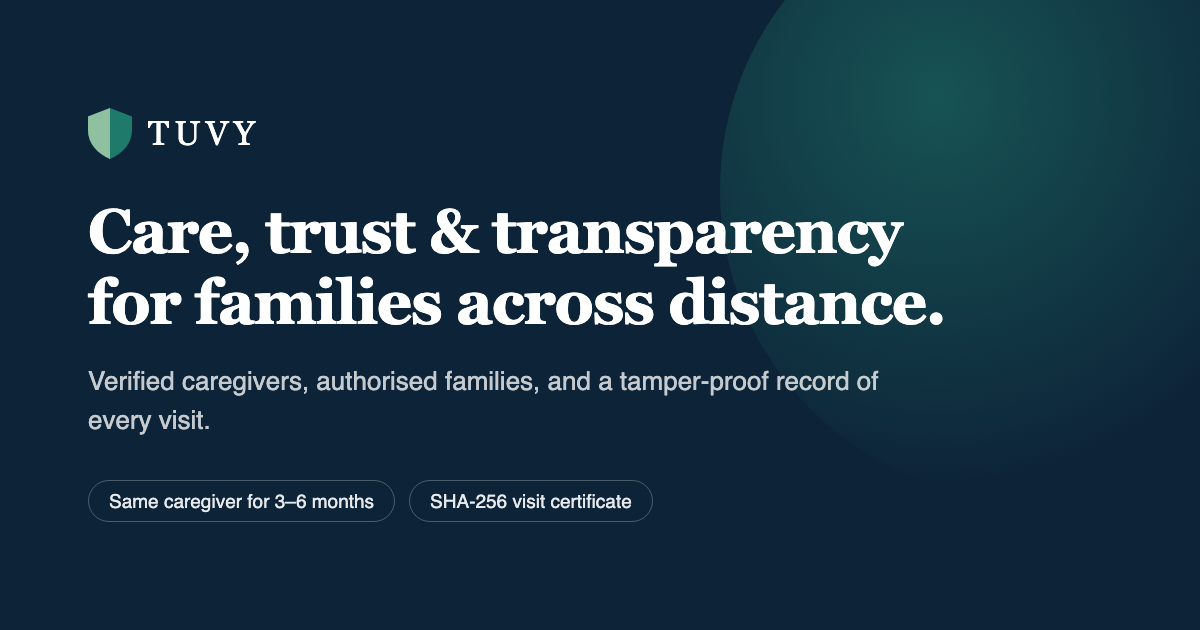
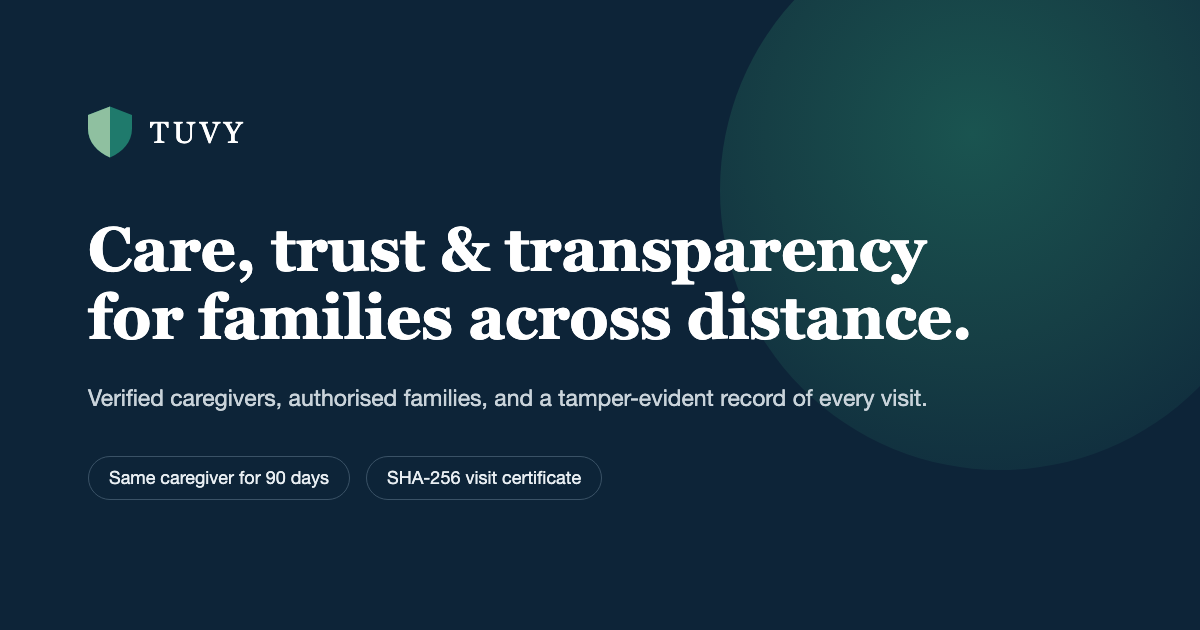
Drop Elite, add Terms of Service, re-export og.png
- Remove the Elite plan; three plans now (owner decision).
- New /terms/ page in the site's style, based on what the apps do:
  18+, OTP accounts, family vs caregiver apps, cash-at-the-door billing
  until online plans open, cancellation rules as visit-service applies
  them, independent caregivers, not a medical device or emergency
  service, reporting/blocking, acceptable use, deletion paths,
  disclaimers, liability, Indian law. Linked from the footer.
- Security: restore "Data is backed up daily" (schedule 0 2 * * * in
  infra/deploy-firestore-backup.sh; owner confirms it runs).
- og.png re-rendered at 1200x630: "Same caregiver for 90 days",
  "tamper-evident".

Claude-Session: https://claude.ai/code/session_01YMFcTZ7xKrqMUZS26zyEk5

diff --git a/terms/index.html b/terms/index.html
@@ -1,0 +1,184 @@
+<!DOCTYPE html>
+<html lang="en">
+<head>
+<meta charset="UTF-8">
+<meta name="viewport" content="width=device-width, initial-scale=1.0">
+<title>Terms of Service — Tuvy</title>
+<link rel="icon" href="/favicon.svg" type="image/svg+xml">
+<meta name="description" content="The terms for using Tuvy and Tuvy Pro.">
+<style>
+  :root{--navy:#0d2438;--teal:#1f7a6c;--cream:#f6f8f6;--ink:#0d2438;--ink-soft:#526270;
+        --card:#fff;--line:#e3eae7;--radius:16px;--shadow:0 12px 34px rgba(13,36,56,0.10);}
+  *{box-sizing:border-box;margin:0;padding:0;}
+  body{font-family:"Segoe UI",-apple-system,BlinkMacSystemFont,"Helvetica Neue",Arial,sans-serif;
+       color:var(--ink);background:var(--cream);line-height:1.65;-webkit-font-smoothing:antialiased;}
+  .wrap{max-width:760px;margin:0 auto;padding:56px 20px 80px;}
+  .back{display:inline-block;color:var(--teal);text-decoration:none;font-size:.92rem;margin-bottom:28px;}
+  .back:hover{text-decoration:underline;}
+  .card{background:var(--card);border:1px solid var(--line);border-radius:var(--radius);
+        box-shadow:var(--shadow);padding:40px 36px;}
+  h1{font-size:1.9rem;line-height:1.25;margin-bottom:10px;color:var(--navy);}
+  h2{font-size:1.18rem;margin:30px 0 10px;color:var(--navy);}
+  p{margin:0 0 12px;color:var(--ink-soft);} p strong{color:var(--ink);}
+  ul{margin:0 0 14px 20px;} li{margin-bottom:8px;color:var(--ink-soft);} li strong{color:var(--ink);}
+  a{color:var(--teal);}
+  .meta{background:#f2f6f4;border-left:3px solid var(--teal);padding:12px 14px;border-radius:8px;margin-bottom:22px;}
+  .candid{background:#fdf6ec;border-left:3px solid #c98a2e;padding:14px 16px;border-radius:8px;margin:22px 0;}
+  .candid h2{margin-top:0;color:#8a5d12;}
+  @media(max-width:560px){.wrap{padding:32px 16px 56px;}.card{padding:26px 20px;}h1{font-size:1.55rem;}}
+</style>
+</head>
+<body>
+  <div class="wrap">
+    <a class="back" href="/">&larr; Tuvy</a>
+    <main class="card">
+      <h1>Terms of Service</h1>
+      <p class="meta"><strong>Last updated:</strong> 19 October 2026<br>
+      <strong>Entity:</strong> tuvy inc (&quot;Tuvy&quot;, &quot;we&quot;, &quot;us&quot;) &middot;
+      Contact: <a href="mailto:admin@tuvy.health">admin@tuvy.health</a></p>
+
+      <p>These terms apply when you use the Tuvy app, the Tuvy Pro app or this website. By
+      creating an account or using either app, you agree to them. Please read them with our
+      <a href="/privacy">Privacy Policy</a> and <a href="/security">Data &amp; Security</a> page.</p>
+
+      <h2>1. What Tuvy is</h2>
+      <p>Tuvy arranges in-home care visits for a person who needs care (the &quot;care
+      recipient&quot;), usually on behalf of family members who live elsewhere. Care professionals
+      visit the care recipient at home, record what happened, and the family can follow the visit
+      in the app.</p>
+      <div class="candid">
+        <h2>Not a medical device, not medical advice, not an emergency service</h2>
+        <p>Tuvy and Tuvy Pro are not medical devices. They do not diagnose, treat or prevent any
+        condition, and nothing shown in either app &mdash; readings, trends, summaries or reports
+        &mdash; is medical advice. Talk to a doctor about any health decision.</p>
+        <p><strong>Tuvy is not an emergency service.</strong> In an emergency, call your local
+        emergency services &mdash; in India, <strong>108</strong> for an ambulance or
+        <strong>112</strong> &mdash; and do not wait for a reply from Tuvy.</p>
+      </div>
+
+      <h2>2. Who may use Tuvy</h2>
+      <ul>
+        <li>You must be <strong>18 or older</strong> to hold an account in either app.</li>
+        <li>Information about a care recipient must be provided by the care recipient or by an
+        adult family member they have authorised.</li>
+        <li><strong>Tuvy</strong> is for families and the person being cared for.
+        <strong>Tuvy Pro</strong> is for care professionals who apply to Tuvy and are approved;
+        signing in to Tuvy Pro does not by itself make you a Tuvy care professional.</li>
+      </ul>
+
+      <h2>3. Your account</h2>
+      <ul>
+        <li>You sign in with your mobile number and a one-time code we send by SMS. Keep your
+        phone secure; anyone who can read your messages can sign in as you.</li>
+        <li>Give us accurate information, and keep it up to date.</li>
+        <li>Family members join a care circle by invitation. The account owner decides what each
+        member can see, as described on our <a href="/security">Data &amp; Security</a> page.</li>
+        <li>You are responsible for what happens under your account. Tell us at
+        <a href="mailto:admin@tuvy.health">admin@tuvy.health</a> if you think someone else is
+        using it.</li>
+      </ul>
+
+      <h2>4. Care professionals</h2>
+      <ul>
+        <li>Care professionals are <strong>independent professionals</strong>, not employees of
+        Tuvy. Each one is responsible for the care they give and for working within their
+        qualifications and registration.</li>
+        <li>Before a care professional can be matched to a family, we check them as described on
+        our <a href="/security">Data &amp; Security</a> page, including an in-person ID check and
+        a manual review by our Operations team. Those checks reduce risk; they cannot remove it,
+        and we do not guarantee any individual&#x27;s conduct.</li>
+        <li>If you are a care professional, you agree to give us true documents and details, to
+        keep your registration and documents current, to follow the visit steps in Tuvy Pro (the
+        check-in, door code and face check at the home), and to record only what actually
+        happened on a visit.</li>
+      </ul>
+
+      <h2>5. Visits, payments and cancellations</h2>
+      <ul>
+        <li><strong>Paying for visits.</strong> Online plan sign-up and card payment are not open
+        yet. Until they are, visits are billed one at a time and paid in cash to the caregiver
+        when they arrive. When online plans and payments become available, their price and terms
+        will be shown in the app before you agree to them.</li>
+        <li><strong>Cancelling.</strong> Before you confirm a cancellation, the app shows whether
+        a fee applies. Cancelling is free shortly after a caregiver accepts and until the
+        caregiver sets off. Once the caregiver is on the way, a cancellation fee &mdash; a share
+        of the visit price &mdash; may apply, because their journey is real. There is no fee if
+        the caregiver is well past the promised arrival time or their trip has visibly stalled,
+        or if the caregiver or Tuvy cancels.</li>
+        <li><strong>Caregiver earnings.</strong> Care professionals see their earnings for
+        completed visits in Tuvy Pro and add the bank account or UPI ID they want to be paid to.</li>
+      </ul>
+
+      <h2>6. What you put into Tuvy</h2>
+      <ul>
+        <li>You keep ownership of the notes, photos, voice notes and documents you add. You give
+        Tuvy permission to store and process them, and to show them to the care circle and the
+        assigned care professional, so that we can provide the service.</li>
+        <li>Only add content you have the right to share, and do not add anything unlawful,
+        abusive or misleading.</li>
+        <li><strong>Reporting and blocking.</strong> You can report a person, note, photo or
+        message from inside the app or by emailing
+        <a href="mailto:admin@tuvy.health">admin@tuvy.health</a>. Our Operations team reviews
+        every report. We may remove content, block a person from being matched with you, or
+        remove them from the service.</li>
+      </ul>
+
+      <h2>7. Acceptable use</h2>
+      <p>You agree not to:</p>
+      <ul>
+        <li>impersonate anyone, or use someone else&#x27;s account or face to pass a visit check;</li>
+        <li>harass, threaten or harm anyone, including care recipients and care professionals;</li>
+        <li>arrange to take care visits off Tuvy with a care professional you met through Tuvy in
+        order to avoid the service&#x27;s checks;</li>
+        <li>interfere with, probe or reverse-engineer the apps or our services, except as allowed
+        by law or our vulnerability-reporting policy on the
+        <a href="/security">Data &amp; Security</a> page; or</li>
+        <li>use Tuvy for anything unlawful.</li>
+      </ul>
+      <p>We may suspend or close an account that breaks these terms or puts anyone at risk.</p>
+
+      <h2>8. Deleting your account</h2>
+      <p>You can delete your account yourself, in the app:</p>
+      <ul>
+        <li><strong>Tuvy</strong>: your profile (top right) &rarr; <em>My profile</em> &rarr;
+        scroll to the bottom &rarr; <em>Delete account</em>.</li>
+        <li><strong>Tuvy Pro</strong>, approved: your profile (top right of Today) &rarr; scroll to
+        the bottom &rarr; <em>Delete account</em>.</li>
+        <li><strong>Tuvy Pro</strong>, application still under review: on the application status
+        screen, scroll to the bottom &rarr; <em>Delete account</em>.</li>
+      </ul>
+      <p>Deleting is permanent. Records of completed visits and payments are kept where the law
+      requires, as described in the <a href="/privacy">Privacy Policy</a>.</p>
+
+      <h2>9. Disclaimers</h2>
+      <p>We work to keep Tuvy available and accurate, but the apps are provided &quot;as is&quot;
+      and &quot;as available&quot;. To the extent the law allows, we do not promise that the apps
+      will be uninterrupted or error-free, that a visit will always be available at the time you
+      want, or that readings, maps, arrival estimates or text read from photos will always be
+      correct. Location, face checks and phone networks can fail; check anything important
+      directly.</p>
+
+      <h2>10. Limitation of liability</h2>
+      <p>To the extent the law allows, Tuvy is not liable for indirect, incidental, special or
+      consequential loss, or for loss of profits, data or goodwill, arising from your use of the
+      apps. Where we are liable, our total liability to you for any claim is limited to the
+      amount you paid Tuvy in the three months before the claim arose. Nothing in these terms
+      limits liability that cannot be limited by law, including for death or personal injury
+      caused by negligence, or for fraud.</p>
+
+      <h2>11. Governing law</h2>
+      <p>These terms are governed by the laws of India. Courts in India have jurisdiction over any
+      dispute about them, without taking away any right you have to bring a claim where you live.</p>
+
+      <h2>12. Changes to these terms</h2>
+      <p>We will post changes here and update the &quot;Last updated&quot; date. If a change is
+      material, we will tell you in the app or by another appropriate means before it takes effect.
+      If you keep using Tuvy after that, the new terms apply.</p>
+
+      <h2>13. Contact</h2>
+      <p>tuvy inc &middot; <a href="mailto:admin@tuvy.health">admin@tuvy.health</a> &middot;
+      <a href="/support">Support</a></p>
+    </main>
+  </div>
+</body>
+</html>

diff --git a/index.html b/index.html
@@ -755,9 +755,9 @@
     <div class="section-head">
       <span class="eyebrow">Subscription Plans</span>
       <h2>Subscription care, sealed by trust.</h2>
-      <p class="lede">Four plans, flat nationwide. Prices include 18% GST — pay quarterly to save 5%, or annually to save 15%. Online plan sign-up is not open yet: until it is, visits are billed one at a time and paid in cash when the caregiver arrives.</p>
+      <p class="lede">Three plans, flat nationwide. Prices include 18% GST — pay quarterly to save 5%, or annually to save 15%. Online plan sign-up is not open yet: until it is, visits are billed one at a time and paid in cash when the caregiver arrives.</p>
     </div>
-    <div class="price-grid price-grid-4">
+    <div class="price-grid">
       <div class="price-card">
         <h3>Essential</h3>
         <div class="price"><span class="amt">₹3,499</span><span class="per">/month</span></div>
@@ -785,15 +785,6 @@
           <li><span class="check">✓</span>Everything in Plus</li>
           <li><span class="check">✓</span>4 home visits a month</li>
           <li><span class="check">✓</span>Caregivers of a higher clinical grade only</li>
-        </ul>
-        <a href="#download" class="btn btn-ghost">Get Tuvy</a>
-      </div>
-      <div class="price-card">
-        <h3>Elite</h3>
-        <div class="price"><span class="amt">₹25,000</span><span class="per">/month</span></div>
-        <ul class="price-list">
-          <li><span class="check">✓</span>Everything in Comprehensive</li>
-          <li><span class="check">✓</span>A dedicated GP and emergency response &mdash; not live yet; ask us before choosing Elite</li>
         </ul>
         <a href="#download" class="btn btn-ghost">Get Tuvy</a>
       </div>
@@ -902,6 +893,7 @@
         <h5>LEGAL</h5>
         <ul>
           <li><a href="/privacy">Privacy Policy</a></li>
+          <li><a href="/terms">Terms of Service</a></li>
           <li><a href="/security">Data &amp; Security</a></li>
         </ul>
       </div>

diff --git a/security/index.html b/security/index.html
@@ -77,6 +77,7 @@
 
       <h2>Operational practice</h2>
       <ul>
+        <li>Data is backed up daily.</li>
         <li>Before a care professional can be matched, Operations must record an in-person ID
         check, mark her application verified and switch her on for matching. A nurse&#x27;s council
         registration must be checked, and a licence past its expiry date takes a professional
